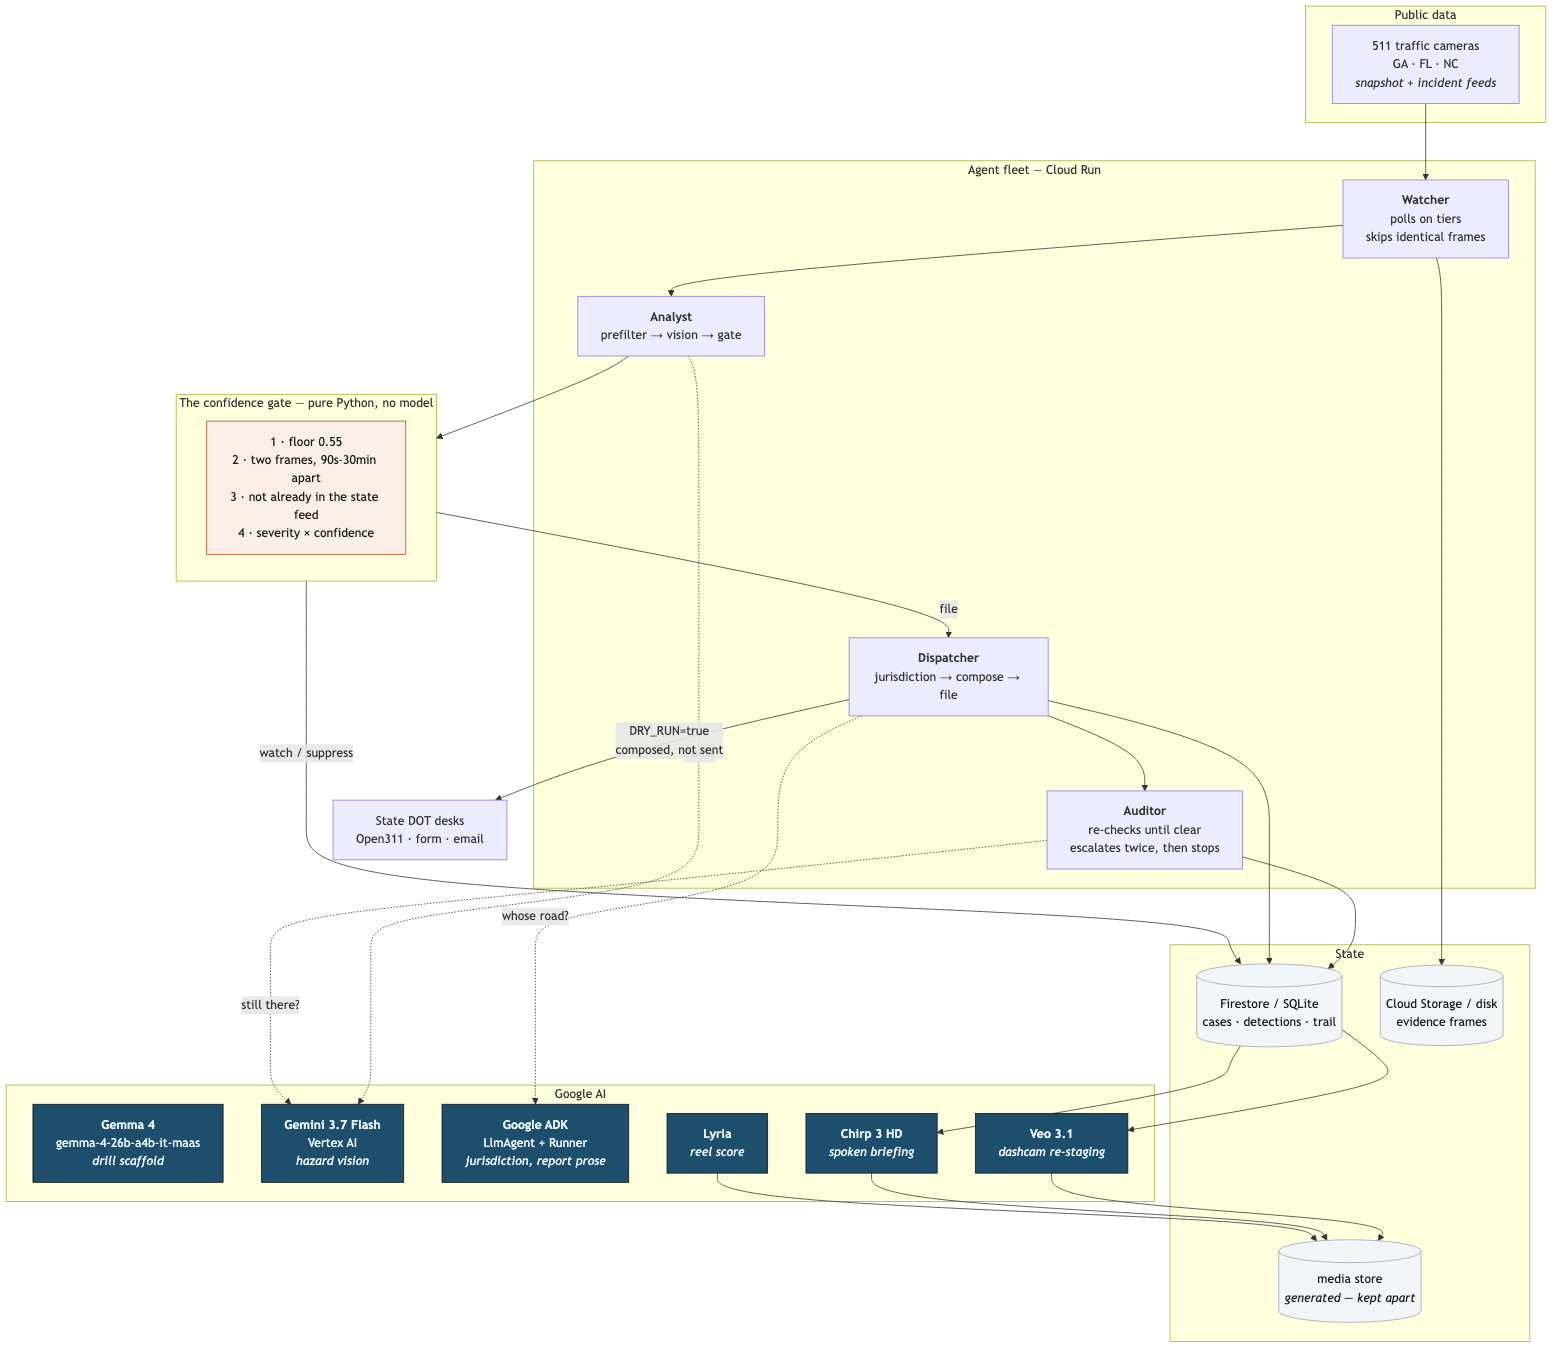
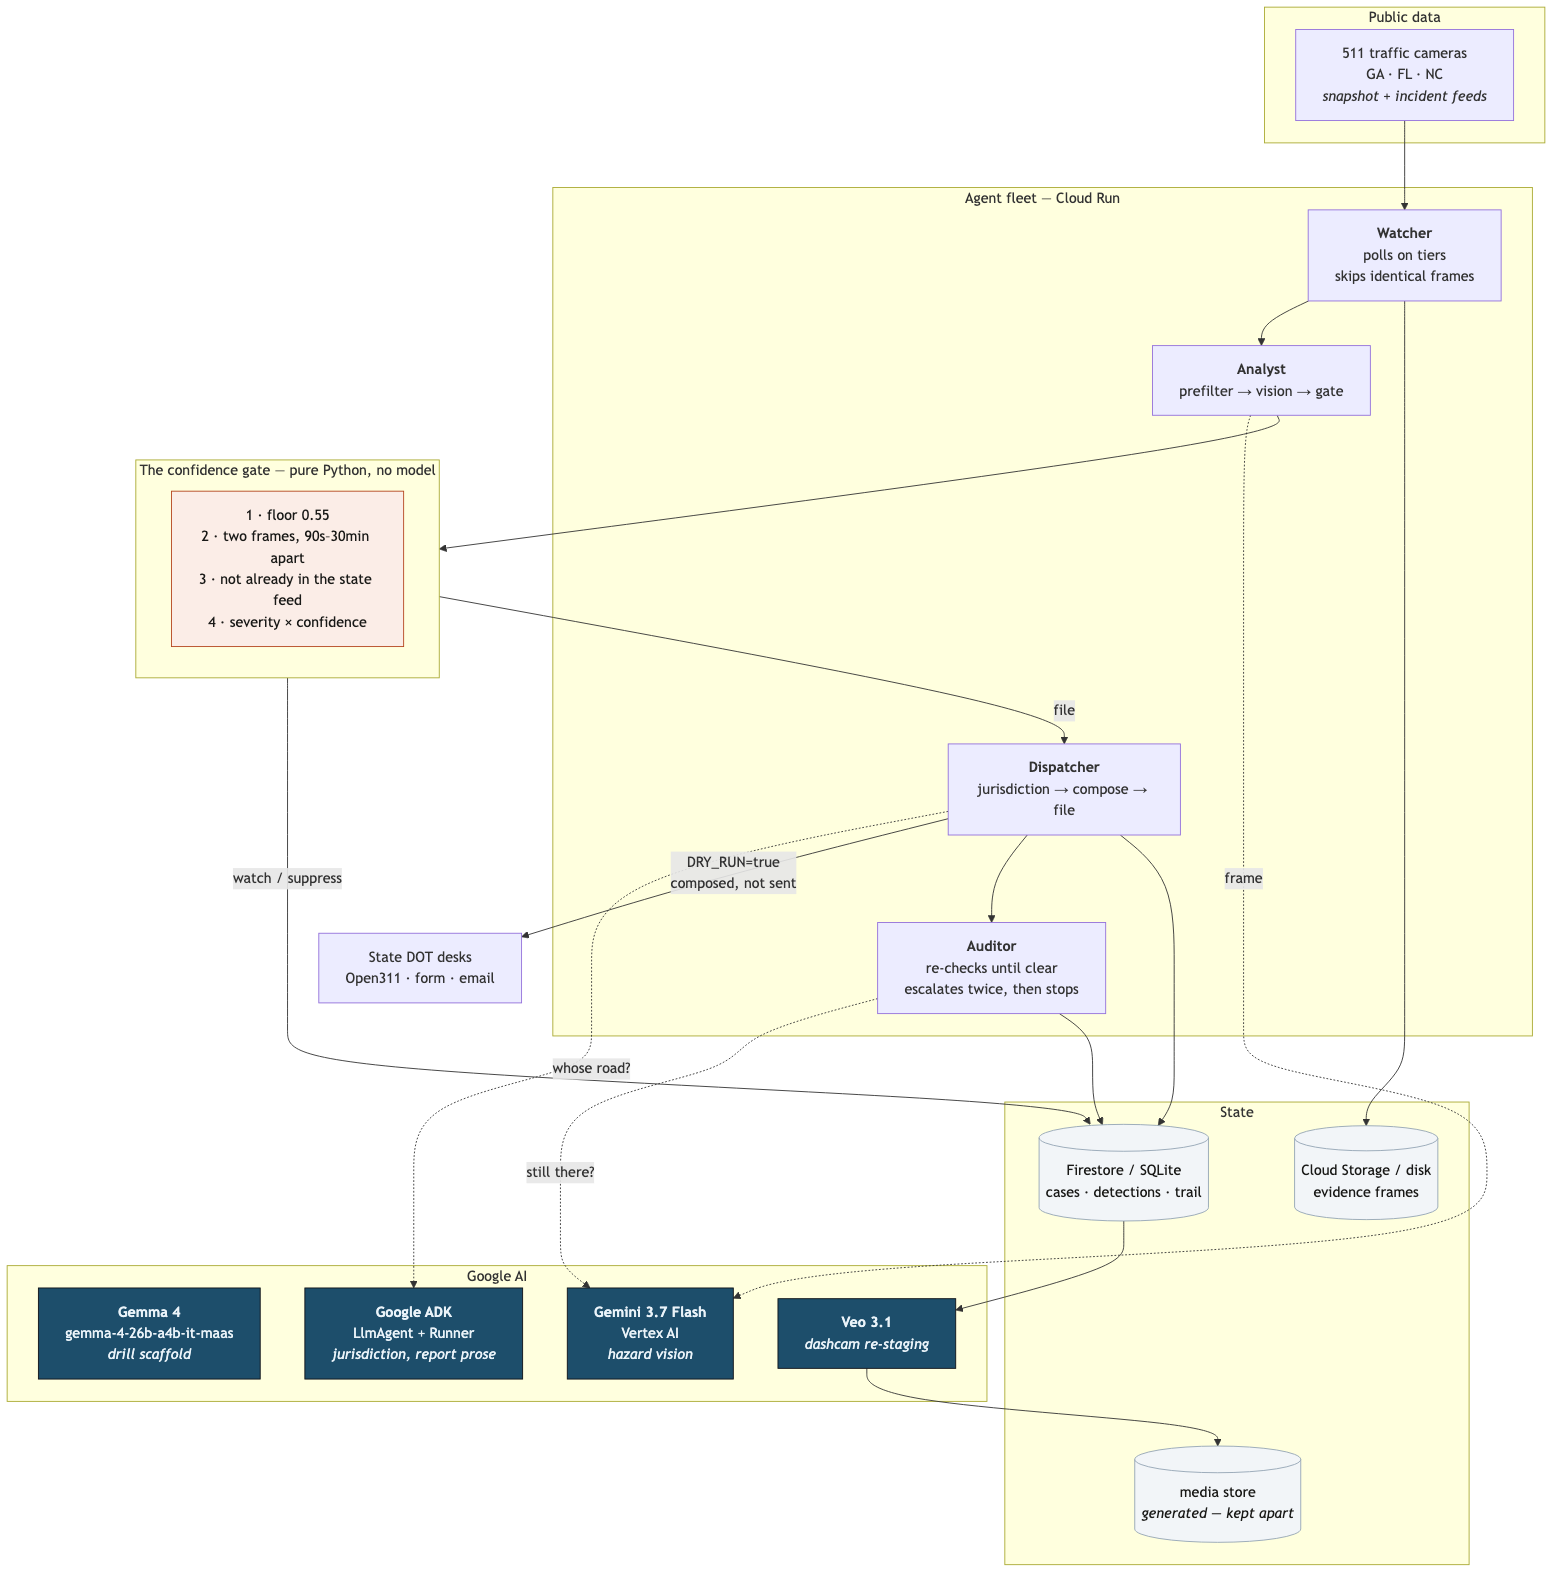
diagram changes

diff --git a/src/road_cleaner/web/static/js/dashcam.js b/src/road_cleaner/web/static/js/dashcam.js
@@ -198,11 +198,12 @@
     /* Location first, and before the camera on purpose.
 
        It used to run after `getUserMedia` had resolved, and on a phone the
-       prompt frequently never appeared at all -- iOS Safari shows permission
-       prompts one at a time, and a second request arriving in the moment the
-       first is dismissed gets dropped rather than queued. The camera prompt won
-       and the location prompt was silently lost, which is why a session could
-       run for minutes and every find come out unreportable.
+       prompt frequently never appeared at all -- the camera prompt was answered
+       and the location one simply never showed, so a session could run for
+       minutes with every find coming out unreportable. The likeliest reading is
+       that a second permission request arriving as the first is dismissed gets
+       dropped rather than queued; what is certain is that moving it in front of
+       the camera made the prompt appear reliably.
 
        Asking first also means the tap that started this is still the most recent
        user gesture, which is what a browser wants to see before it will prompt

diff --git a/docs/diagram.md b/docs/diagram.md
@@ -39,8 +39,6 @@ flowchart TB
         gemini["<b>Gemini 3.7 Flash</b><br/>Vertex AI<br/><i>hazard vision</i>"]
         adk["<b>Google ADK</b><br/>LlmAgent + Runner<br/><i>jurisdiction, report prose</i>"]
         veo["<b>Veo 3.1</b><br/><i>dashcam re-staging</i>"]
-        chirp["<b>Chirp 3 HD</b><br/><i>spoken briefing</i>"]
-        lyria["<b>Lyria</b><br/><i>reel score</i>"]
     end
 
     subgraph gate["The confidence gate — pure Python, no model"]
@@ -69,13 +67,11 @@ flowchart TB
     watcher --> blobs
     dispatcher --> repo
     repo --> veo --> media
-    repo --> chirp --> media
-    lyria --> media
 
     classDef google fill:#1D4E6B,stroke:#0E1116,color:#EAF3F9
     classDef store fill:#F2F5F8,stroke:#94A5B4,color:#1A1A18
     classDef guard fill:#FBEDE7,stroke:#B4451F,color:#1A1A18
-    class gemma,gemini,adk,veo,chirp,lyria google
+    class gemma,gemini,adk,veo google
     class repo,blobs,media store
     class g guard
 ```
@@ -194,14 +190,19 @@ flowchart TB
         subgraph vertex["Vertex AI"]
             v1["Gemini 3.7 Flash<br/><i>hazard vision</i>"]
             v2["Google ADK<br/><i>jurisdiction · report prose</i>"]
-            v3["Veo 3.1 · Lyria · Chirp 3 HD<br/><i>re-staging, off by default</i>"]
+            v3["Veo 3.1<br/><i>re-staging, on request</i>"]
             v4["Gemma 4<br/><i>drill scaffold</i>"]
         end
 
         fb["Firebase Auth<br/><i>Google sign-in → uid</i>"]
-        fs[("Firestore<br/><i>cases · incidents</i>")]
-        gcs[("Cloud Storage<br/><i>evidence frames</i>")]
-        ps["Pub/Sub<br/><i>port written, memory bus in use</i>"]
+
+        subgraph ports["Behind ports — adapters written, not enabled on this revision"]
+            fs[("Firestore")]
+            gcs[("Cloud Storage")]
+            ps["Pub/Sub"]
+        end
+
+        local[("SQLite + local disk<br/><i>what the deployed revision runs</i>")]
     end
 
     smtp["SMTP → agency desks<br/><i>guarded: allowlist + DRY_RUN</i>"]
@@ -213,16 +214,15 @@ flowchart TB
     run --> v2
     run --> v3
     run --> v4
-    run --> fs
-    run --> gcs
-    run -.-> ps
+    run --> local
+    run -.->|"deploy.sh --with-firestore"| ports
     run -->|"only past guard_live_send"| smtp
 
     classDef google fill:#1D4E6B,stroke:#0E1116,color:#EAF3F9
     classDef store fill:#F2F5F8,stroke:#94A5B4,color:#1A1A18
     classDef guard fill:#FBEDE7,stroke:#B4451F,color:#1A1A18
     class v1,v2,v3,v4,fb,run google
-    class fs,gcs store
+    class fs,gcs,local store
     class smtp guard
 ```
 

diff --git a/README.md b/README.md
@@ -22,6 +22,37 @@ labelled as such: see [Simulation](#simulation--synthetic-footage-from-real-haza
 
 ---
 
+## For hackathon judges
+
+Built for the **All Things Agentic Hackathon** — track: **Taskmaster**.
+
+| | |
+|---|---|
+| **Live service** | https://road-cleaner-dashboard-6yx6cifega-uc.a.run.app |
+| **Spin-up guide** | [Quickstart](#quickstart--no-credentials-no-cloud-account-two-commands) — two commands, no credentials |
+| **Architecture diagram** | [`docs/diagram.md`](docs/diagram.md) · PNGs in [`docs/img/`](docs/img/) |
+| **Deploy to your own project** | [`make deploy PROJECT=…`](#deploying-to-google-cloud) |
+| **Submission write-up** | [`docs/submission.md`](docs/submission.md) |
+
+Required tech, and where to find each one in the source:
+
+| Requirement | Used | Where |
+|---|---|---|
+| Gemini 3.5+ via Vertex AI | `gemini-3.7-flash` | [`adapters/vision/gemini_vision.py`](src/road_cleaner/adapters/vision/gemini_vision.py) |
+| A Google agent framework | **Google ADK** — `LlmAgent`, `Runner` | [`adapters/reasoning/adk_reasoner.py`](src/road_cleaner/adapters/reasoning/adk_reasoner.py), [`agents/coordinator.py`](src/road_cleaner/agents/coordinator.py) |
+| A Google Cloud service | **Cloud Run** + Firebase Auth, both live | [`deploy/deploy.sh`](deploy/deploy.sh), [`web/auth.py`](src/road_cleaner/web/auth.py) |
+| *Bonus:* other Google models | Gemma 4, Veo 3.1 (pipeline) · Chirp 3 HD, Lyria | [`adapters/media/`](src/road_cleaner/adapters/media/), [`pipeline/drill.py`](src/road_cleaner/pipeline/drill.py) |
+
+Firestore, Cloud Storage and Pub/Sub adapters are written and tested, but the
+deployed revision runs SQLite, local disk and an in-process bus —
+`deploy.sh --with-firestore` switches the first two. Said plainly here because
+"uses Google Cloud" should mean something specific.
+
+`root_agent` is exported from [`agents/coordinator.py`](src/road_cleaner/agents/coordinator.py),
+so the agent team can be driven directly from `adk web`.
+
+---
+
 ## Quickstart — no credentials, no cloud account, two commands
 
 ```bash
@@ -66,7 +97,7 @@ Other useful commands:
 
 ```bash
 make doctor    # which adapter is wired to each port, and what's missing to go live
-make test      # the whole suite — 300+ tests, still no credentials
+make test      # the whole suite — 882 tests, still no credentials
 make outbox    # the reports that would have been sent
 make clean     # delete all generated data
 ```
